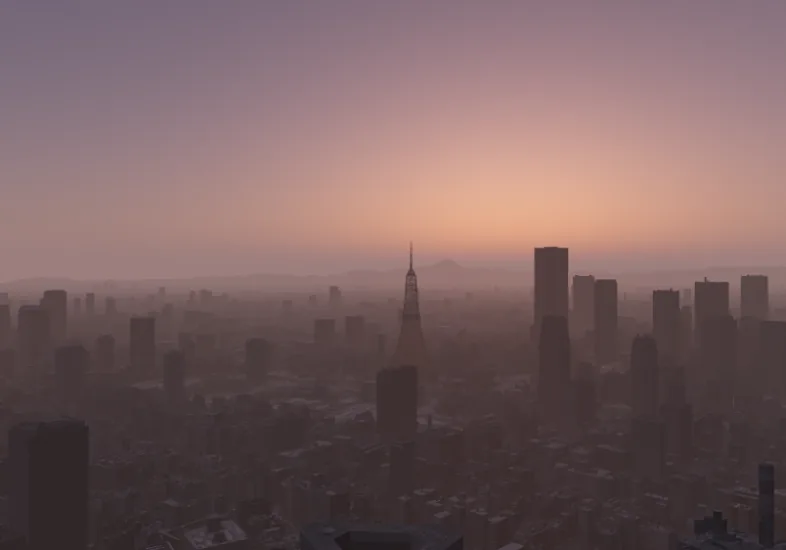
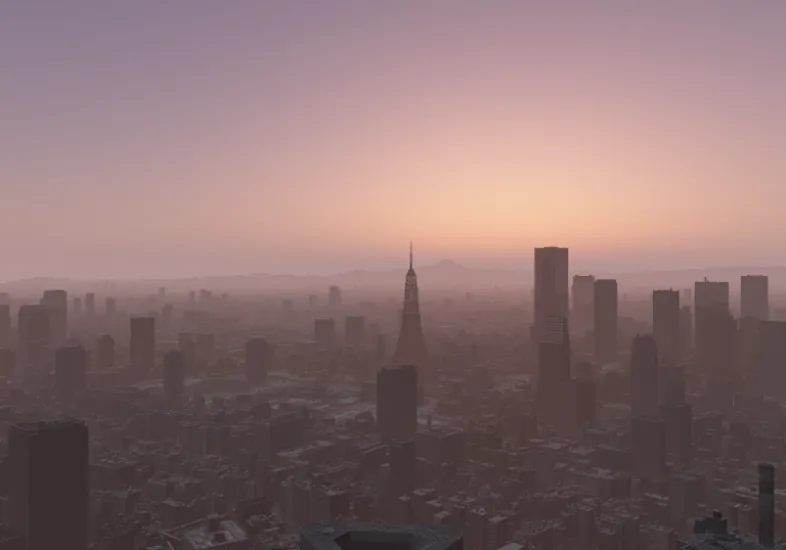
写真らしさ：カメラの自動露出、青みの薄い空の光、ガラスの映り込み、東京タワーの格子の照り方と太さ、東京の夜空の星、研いだ色
ホームの帯の街を、本物の写真の見え方に近づけた
- カメラの自動露出（lib/app/sky-vars.ts の meterExposure）：帯に入る空の明るさ（地平線より上を 5×3 で測る）が決まった値を
  超えたら絞る（0.4〜1）。逆光の午後に空全体が白く飛ばず、太陽の近くだけが白くなり、街は暗いシルエットに。
  CSS の空の色と <head> の最初の計算（SKY_HEAD_SCRIPT）も同じ値（角度だけで決めていた逆光の補正はやめた）
- 空からの光は建物どうしの照り返しで青みが薄まる（彩度を 45% 落とし、地面の照り返しは暖かい灰色 0.16）。建物の間は暗く
- 窓は空を映す（フレネル。オフィスの熱線反射ガラスは正面でも 12%、斜めほど鏡に。太陽の映り込みはきらりと光る）
- 東京タワーは格子なので、面の向きによらず昼は日が当たる（高さ地図で自分の影にしない）。部材は遠目の格子の密度に合わせて
  少し太く焼き直し（scripts/city-bake/tower.py）
- 東京の夜空は明るいので星は明るいものだけ（帯に十数個。地平線の近くは見えない）
- 焼き込んだ色は縮小で柔らかくなった分を少し研ぐ（post3.py）。代わりの絵（WebGL なし・読み込み中）も作り直し
- <head> の最初の計算の霞の上限を lib/app/air.ts と同じ 2.5 に。テスト 775、PC の見た目は本番との差分 0px

Claude-Session: https://claude.ai/code/session_01VXta14VyGyHnimiy8JAqdH

diff --git a/lib/app/sky-vars.ts b/lib/app/sky-vars.ts
@@ -4,7 +4,7 @@
 // 1分ごと・復帰時・日時の固定（#t=）の変化で入れ直す。React は変数の値を描かないので、サーバーで作った HTML と食い違わず
 // （Hydration の問題が出ない）、夜に開いても昼の空が一瞬出ない
 import { AERO_SEASON, airFrom, RH_NORMAL, type Air } from "./air";
-import { ATMOS, dirFromAltAz, skyColor, type Vec3 } from "./atmosphere";
+import { ATMOS, CLEAN_AIR, dirFromAltAz, exposureFor, radiance, skyColor, type AirParams, type Vec3 } from "./atmosphere";
 import { blend, HOME_CAMERA, layerOpacity, light, lightX, overrideTime, PHOTO_ORDER, projectSun, solar, type Camera, type Light } from "./sun";
 import { currentWeather, lightsLevel, type Weather } from "./weather";
 
@@ -69,6 +69,31 @@ export function viewDir(cam: Camera, sx: number, sy: number): Vec3 {
   return [d[0] / n, d[1] / n, d[2] / n];
 }
 
+/**
+ * カメラの自動露出：帯の地平線より上の空の明るさ（横 5 × 縦 3 で測った平均。露出込みの線形の輝度。太陽のすぐそばの極端な値は
+ * knee で丸める）が target を超えたら、その分だけ絞る（min〜1）。逆光の午後に空全体が白く飛ばず、太陽の近くだけが白くなる。
+ * 太陽がカメラの後ろにある昼と、沈んでからは 1（測らない）。<head> の最初の計算（SKY_HEAD_SCRIPT の meter）と、帯のシェーダー（u_expAdj）も同じ値
+ */
+export const METER = { target: 1.85, min: 0.4, nx: 5, ny: 3, knee: 10 } as const;
+export function meterExposure(altitude: number, azimuth: number, cam: Camera = HOME_CAMERA, air: AirParams = CLEAN_AIR): number {
+  const s = dirFromAltAz(altitude, azimuth);
+  const fwd = viewDir(cam, 0, 0);
+  if (altitude < -6 || s[0] * fwd[0] + s[1] * fwd[1] + s[2] * fwd[2] < 0) return 1;
+  const e = exposureFor(altitude);
+  const hy = 1 - 2 * cam.horizon;
+  let sum = 0;
+  for (let j = 0; j < METER.ny; j++) {
+    const sy = hy + (1 - hy) * ((j + 0.5) / METER.ny);
+    for (let i = 0; i < METER.nx; i++) {
+      const L = radiance(viewDir(cam, -1 + 2 * ((i + 0.5) / METER.nx), sy), s, air.aero);
+      const y = (0.2126 * L[0] + 0.7152 * L[1] + 0.0722 * L[2]) * e;
+      sum += METER.knee * (1 - Math.exp(-y / METER.knee));
+    }
+  }
+  const mean = sum / (METER.nx * METER.ny);
+  return Math.round(Math.min(1, Math.max(METER.min, METER.target / Math.max(mean, 1e-6))) * 1000) / 1000;
+}
+
 /** 雲で灰色に寄せる（雲量が多いほど彩度を落とし、少し暗く） */
 export function cloudy(c: Vec3, cloud: number): Vec3 {
   const g = 0.2126 * c[0] + 0.7152 * c[1] + 0.0722 * c[2];
@@ -81,10 +106,11 @@ export function bandColors(altitude: number, azimuth: number, cam: Camera = HOME
   const s = dirFromAltAz(altitude, azimuth);
   const hy = 1 - 2 * cam.horizon;
   const c = weather.cloud;
+  const x = meterExposure(altitude, azimuth, cam, air);
   return {
-    top: cloudy(skyColor(viewDir(cam, 0, 1), s, altitude, air), c),
-    mid: cloudy(skyColor(viewDir(cam, 0, (1 + hy) / 2), s, altitude, air), c),
-    horizon: cloudy(skyColor(viewDir(cam, 0, hy + 0.04), s, altitude, air), c),
+    top: cloudy(skyColor(viewDir(cam, 0, 1), s, altitude, air, x), c),
+    mid: cloudy(skyColor(viewDir(cam, 0, (1 + hy) / 2), s, altitude, air, x), c),
+    horizon: cloudy(skyColor(viewDir(cam, 0, hy + 0.04), s, altitude, air, x), c),
   };
 }
 
@@ -153,14 +179,15 @@ var lo=d2s([0,0,A.Re+A.msL],s),hi=d2s([0,0,A.Re+A.msH],s);
 for(j=0;j<3;j++){var lit=A.msW*(lo?Math.exp(-lo[j]):0)+(1-A.msW)*(hi?Math.exp(-hi[j]):0),th=1-Math.exp(-A.bR[j]*tR-bm*A.mE*tM);out[j]=(out[j]+A.msS*A.msC[j]*th*lit)*A.sun}
 return out}
 function expo(a){var k=A.ek;if(a>=k[0][0])return k[0][1];for(var i=0;i<k.length-1;i++){if(a<=k[i][0]&&a>=k[i+1][0]){var t=(k[i][0]-a)/(k[i][0]-k[i+1][0]);return Math.exp(Math.log(k[i][1])*(1-t)+Math.log(k[i+1][1])*t)}}return k[k.length-1][1]}
-function skyc(v,s,alt){var L=rad(v,s),e=expo(alt),el=Math.asin(Math.max(-1,Math.min(1,v[2])))/P,f=Math.exp(-Math.max(0,el)/A.nF),o=[0,0,0];for(var j=0;j<3;j++)o[j]=Math.round(255*Math.pow(1-Math.exp(-Math.max(0,L[j]*e+(A.nZ[j]+A.nH[j]*f)*GL)),1/2.2));return o}
+function skyc(v,s,alt,x){var L=rad(v,s),e=expo(alt),el=Math.asin(Math.max(-1,Math.min(1,v[2])))/P,f=Math.exp(-Math.max(0,el)/A.nF),o=[0,0,0];for(var j=0;j<3;j++)o[j]=Math.round(255*Math.pow(1-Math.exp(-Math.max(0,(L[j]*e+(A.nZ[j]+A.nH[j]*f)*GL)*x)),1/2.2));return o}
+function meter(s,alt){if(alt<-6||dt(s,vdir(0,0))<0)return 1;var e=expo(alt),hy=1-2*CAM.horizon,sum=0,K=${METER.knee};for(var j=0;j<${METER.ny};j++){var sy=hy+(1-hy)*((j+0.5)/${METER.ny});for(var i=0;i<${METER.nx};i++){var L=rad(vdir(-1+2*((i+0.5)/${METER.nx}),sy),s),y=(0.2126*L[0]+0.7152*L[1]+0.0722*L[2])*e;sum+=K*(1-Math.exp(-y/K))}}var m=sum/${METER.nx * METER.ny};return Math.round(Math.min(1,Math.max(${METER.min},${METER.target}/Math.max(m,1e-6)))*1000)/1000}
 function vdir(sx,sy){var tH=Math.tan(CAM.hfov/2*P),tV=tH/CAM.aspect,pi=Math.atan((2*CAM.horizon-1)*tV),y0=CAM.bearing*P,f=[Math.sin(y0)*Math.cos(pi),Math.cos(y0)*Math.cos(pi),Math.sin(pi)],r=[Math.cos(y0),-Math.sin(y0),0],u=[-Math.sin(y0)*Math.sin(pi),-Math.cos(y0)*Math.sin(pi),Math.cos(pi)],d=[0,1,2].map(function(i){return f[i]+r[i]*sx*tH+u[i]*sy*tV}),n=Math.sqrt(dt(d,d));return[d[0]/n,d[1]/n,d[2]/n]}
 function sdir(alt,az){return[Math.cos(alt*P)*Math.sin(az*P),Math.cos(alt*P)*Math.cos(az*P),Math.sin(alt*P)]}
 function weather(){try{var hs=location.hash.replace(/^#/,""),m=hs.match(/(?:^|&)w=([^&]+)/),hm=hs.match(/(?:^|&)h=(\d{1,3})/),rh=hm?Math.min(100,Number(hm[1])):null;if(m){var kd=decodeURIComponent(m[1]).split(":")[0],n=Number(decodeURIComponent(m[1]).split(":")[1]),a=isNaN(n)?0.5:Math.min(1,Math.max(0,n));
 if(kd==="clear")return{cloud:0.05,precip:0,fog:0,humidity:rh};if(kd==="partly")return{cloud:isNaN(n)?0.5:a,precip:0,fog:0,humidity:rh};if(kd==="cloudy")return{cloud:isNaN(n)?0.97:Math.max(0.85,a),precip:0,fog:0,humidity:rh};
 if(kd==="rain")return{cloud:0.97,precip:a,fog:0.25,humidity:rh};if(kd==="snow")return{cloud:0.95,precip:a,fog:0.3,humidity:rh};if(kd==="fog")return{cloud:0.9,precip:0,fog:isNaN(n)?0.7:a,humidity:rh===null?99:rh}}
 var raw=localStorage.getItem("michilu:weather");if(raw){var v=JSON.parse(raw);if(v&&v.w&&typeof v.t==="number"&&Date.now()-v.t<=${30 * 60e3})return v.w}}catch(e){}return{cloud:0.08,precip:0,fog:0,humidity:null}}
-function air(W,d){var mo=new Date(d.getTime()+32400000).getUTCMonth()+1,rh=W.humidity===null||W.humidity===undefined?RHN[mo]:Math.min(100,Math.max(0,W.humidity)),r=Math.min(97,Math.max(10,rh))/100,ae=Math.round(Math.min(4,Math.max(0.1,Math.pow(0.5/(1-r),0.8)*AS[mo]))*1000)/1000;AR=ae;GL=Math.round(Math.min(1.9,Math.max(0.85,0.65+0.35*ae))*1000)/1000}
+function air(W,d){var mo=new Date(d.getTime()+32400000).getUTCMonth()+1,rh=W.humidity===null||W.humidity===undefined?RHN[mo]:Math.min(100,Math.max(0,W.humidity)),r=Math.min(97,Math.max(10,rh))/100,ae=Math.round(Math.min(2.5,Math.max(0.1,Math.pow(0.5/(1-r),0.8)*AS[mo]))*1000)/1000;AR=ae;GL=Math.round(Math.min(1.9,Math.max(0.85,0.65+0.35*ae))*1000)/1000}
 function cloudy(c,cl){var gy=0.2126*c[0]+0.7152*c[1]+0.0722*c[2],k=cl*0.85,m=[0.97,0.98,1],o=[0,0,0];for(var i=0;i<3;i++)o[i]=Math.round((c[i]*(1-k)+gy*k*m[i])*(1-cl*0.1));return o}
 var OCC=${JSON.stringify([[0, 0.55], [1, 0.42], [2, 0.32], [3, 0.28], [4, 0.28], [5, 0.36], [6, 0.5], [7, 0.62], [8, 0.75], [9, 0.8], [16, 0.8], [17, 0.9], [18, 1], [21, 1], [22, 0.92], [23, 0.75], [24, 0.55]])};
 function occ(h){h=((h%24)+24)%24;for(var i=0;i<OCC.length-1;i++){if(h>=OCC[i][0]&&h<=OCC[i+1][0])return OCC[i][1]+(OCC[i+1][1]-OCC[i][1])*(h-OCC[i][0])/(OCC[i+1][0]-OCC[i][0])}return 0.55}
@@ -181,7 +208,7 @@ if(!up){if(a>=0){b.day=ss(0,10,a);b.golden=1-b.day}else if(a>=-6){b.golden=ss(-6
 else if(a>=0){b.day=ss(0,10,a);b.dawn=1-b.day}else if(a>=-6){b.dawn=ss(-6,0,a);b.night=1-b.dawn}else b.night=1;return b}
 function hex(c){var s="#";for(var i=0;i<3;i++){var v=Math.round(Math.min(255,Math.max(0,c[i]))).toString(16);s+=(v.length<2?"0":"")+v}return s}
 function at(){var m=location.hash.replace(/^#/,"").match(/(?:^|&)t=([^&]+)/);if(m){var v=decodeURIComponent(m[1]),d=new Date(/[zZ]|[+-]\\d\\d:?\\d\\d$/.test(v)?v:v+(v.length<=10?"T12:00":"")+"+09:00");if(!isNaN(d.getTime()))return d}return new Date()}
-var d0=at(),s=sun(d0),a=s[0],up=s[1],az=s[2],b=blend(a,up),sd=sdir(a,az),hy=1-2*CAM.horizon,W=weather();air(W,d0);var top=cloudy(skyc(vdir(0,1),sd,a),W.cloud),md=cloudy(skyc(vdir(0,(1+hy)/2),sd,a),W.cloud),hz=cloudy(skyc(vdir(0,hy+0.04),sd,a),W.cloud);
+var d0=at(),s=sun(d0),a=s[0],up=s[1],az=s[2],b=blend(a,up),sd=sdir(a,az),hy=1-2*CAM.horizon,W=weather();air(W,d0);var X=meter(sd,a),top=cloudy(skyc(vdir(0,1),sd,a,X),W.cloud),md=cloudy(skyc(vdir(0,(1+hy)/2),sd,a,X),W.cloud),hz=cloudy(skyc(vdir(0,hy+0.04),sd,a,X),W.cloud);
 var jh=(((d0.getTime()+32400000)%86400000)+86400000)%86400000/3600000,lightsV=ss(4,-6,a)*occ(jh);
 var lum=(0.2126*top[0]+0.7152*top[1]+0.0722*top[2])/255,dark=lum<0.42;
 var near=Math.exp(-((a+1)*(a+1))/(2*4.5*4.5)),warm=a<8&&a>-8?ss(8,0,a)*(1-ss(-2,-8,a)):0,n=b.night+0.5*(b.twilight+b.dawn);

diff --git a/components/app/sky-canvas.tsx b/components/app/sky-canvas.tsx
@@ -16,13 +16,14 @@
 import * as SunCalc from "suncalc";
 import { useEffect, useRef, type CSSProperties } from "react";
 import { ATMOS, dirFromAltAz, exposureFor, sunTransmittance, sunTransmittanceAt } from "@/lib/app/atmosphere";
-import { airFrom } from "@/lib/app/air";
+import { airFrom, type Air } from "@/lib/app/air";
 import { snowlineM, treeSeason, visibilityKm, windowOccupancy } from "@/lib/app/city";
 import { artificialVisibility, cityAmbient, skyIrradianceSH, sunIrradiance } from "@/lib/app/city-light";
 import { CAM_LL, cloudDrift, currentSky, flashAt, parseTime, sunVisibility, type LiveSky } from "@/lib/app/satellite";
 import { BASE, HOME_CAMERA, overrideTime, smoothstep, solar, type Camera } from "@/lib/app/sun";
 import { towerLight } from "@/lib/app/tower";
 import { currentWeather } from "@/lib/app/weather";
+import { meterExposure } from "@/lib/app/sky-vars";
 import { SKY_EVENT } from "./sky-event";
 
 const VERT = `attribute vec2 a;void main(){gl_Position=vec4(a,0.0,1.0);}`;
@@ -87,7 +88,8 @@ float d=decodeDist(g);vec3 v=viewDir(uv);vec3 P=v*d;
 vec3 n=normalize(texture2D(u_nrm,iuv).rgb*2.0-1.0);
 float lit=max(dot(n,u_sun),0.0);
 /* 影：今の太陽の向きへ高さ地図をたどり、途中の建物・地形が光線より高ければ影 */
-if(lit>0.0){float hs=length(u_sun.xy);
+/* 東京タワーは格子：どの向きから見ても日の当たる部材が透けて見えるので、面の向きによらず昼はおおむね照る（高さ地図では自分の影にしない） */
+if(typ==4.0)lit=(0.35+0.5*lit)*step(0.0,u_sun.z);else if(lit>0.0){float hs=length(u_sun.xy);
 if(hs>1e-4&&d<9000.0){vec2 sd=u_sun.xy/hs;float ta=u_sun.z/hs;vec2 q0=P.xy+n.xy*2.5;float z0=P.z+0.7+max(n.z,0.0)*0.6;
 float s=4.0;float oc=0.0;
 for(int i=0;i<30;i++){float h=dsmH(q0+sd*s);float ray=z0+s*ta;oc=max(oc,clamp((h-ray)/(1.5+s*0.015),0.0,1.0));s*=1.2;}
@@ -184,10 +186,10 @@ if(u_moonOn>0.5){vec3 m=u_moon;vec3 mu_=normalize(cross(m,vec3(0.0,0.0,1.0)));ve
 float vis=clamp(1.0-skyLum*3.0,0.08,1.0)*(1.0-u_cloud*0.85);float tm=acos(clamp(dot(v,m),-1.0,1.0));
 if(rr<1.0){float nz=sqrt(1.0-rr);vec3 n=-m*nz+mu_*dx+mv*dy;float l=max(0.0,dot(n,u_sun));float edge=1.0-smoothstep(0.9,1.0,rr);sky+=vec3(1.0,0.97,0.9)*(l*0.85+0.03)*edge*vis;}
 sky+=vec3(0.9,0.92,1.0)*0.09*exp(-tm/(0.04*u_haze))*vis;}
-/* 星（暗いときだけ。雲の後ろ。街明かりで地平線の近くは見えない） */
+/* 星（暗いときだけ。雲の後ろ。東京の空は街明かりで明るく、見えるのは明るい星だけ＝帯に十数個。地平線の近くは見えない） */
 if(u_stars>0.0){float az=atan(v.x,v.y);vec2 cell=vec2(az,asin(clamp(v.z,-1.0,1.0)))/0.0061;vec2 id=floor(cell);float h1=hash21(id);
-if(h1<0.013){vec2 cen=id+0.5+vec2(hash21(id+1.3),hash21(id+7.1))*0.6-0.3;float dd=length(cell-cen);float b=pow(hash21(id+3.7),3.0)*0.9+0.08;
-sky+=vec3(0.85,0.9,1.0)*b*exp(-dd*dd*9.0)*u_stars*clamp(1.0-skyLum*6.0,0.0,1.0)*smoothstep(0.03,0.3,v.z);}}
+if(h1<0.0014){vec2 cen=id+0.5+vec2(hash21(id+1.3),hash21(id+7.1))*0.6-0.3;float dd=length(cell-cen);float b=pow(hash21(id+3.7),2.0)*0.85+0.15;
+sky+=vec3(0.85,0.9,1.0)*b*exp(-dd*dd*9.0)*u_stars*clamp(1.0-skyLum*6.0,0.0,1.0)*smoothstep(0.08,0.45,v.z);}}
 sky=mix(sky,cloudColH,dH*0.93);sky=mix(sky,cloudColL,dL*0.95);
 /* 稲光：発雷域の向きの雲と空が一瞬明るくなる */
 if(u_flash>0.0){float ang=acos(clamp(dot(normalize(v.xy+vec2(1e-5,0.0)),u_flashDir),-1.0,1.0));float k=u_flash*exp(-ang*ang/0.22)*smoothstep(-0.02,0.08,v.z);sky+=vec3(0.85,0.88,1.0)*k*(0.25+1.2*max(dL,dH));}
@@ -218,9 +220,17 @@ a*=1.0-0.38*u_wet*up*(1.0-u_snowCover);
 /* 雲の影：太陽の向きにたどって雲の層に当たる所の雲の濃さ（本物の雲の影） */
 float cs=cloudShadow(P.xy/1000.0,P.z/1000.0);
 vec3 E=max(u_sh0+u_sh1*n.x+u_sh2*n.y+u_sh3*n.z,vec3(0.0));
-vec3 L=a*(u_sunE*pre.r*cs+E*ao*0.8)/3.14159265+a*u_amb*(0.35+0.65*ao);
+/* 空からの光は建物どうしの照り返しで青みが薄まる。建物の間（空の見え方が小さい所）は暗い */
+E=mix(E,vec3(dot(E,vec3(0.2126,0.7152,0.0722))),0.45);
+vec3 L=a*(u_sunE*pre.r*cs+E*ao*(0.45+0.45*ao))/3.14159265+a*u_amb*(0.35+0.65*ao);
 /* 濡れた屋根・道は空を映す（夜は街灯も） */
 L+=haze*0.10*u_wet*up*(1.0-u_snowCover);
+/* ガラス：窓は空を映す（斜めから見るほど強く＝フレネル。オフィスの熱線反射ガラスは正面でも 12% ほど映す）。太陽の映り込みはきらりと光る */
+if(typ<2.5){float glass=texture2D(u_win,iuv).r*(aux<1.5?1.0:0.7)*(1.0-u_snowCover);
+if(glass>0.01){float nv=max(dot(n,-v),0.0);float f0=aux<1.5?0.12:0.05;float F=f0+(1.0-f0)*pow(1.0-nv,5.0);vec3 rv=reflect(v,n);
+vec3 refl=rv.z>0.0?mix(hz*0.9,zen,smoothstep(0.0,0.5,rv.z)):L*0.8;
+float glint=pow(max(dot(rv,u_sun),0.0),180.0)*step(0.0,u_sun.z)*sunVis*min(pre.r*4.0,1.0);
+L+=glass*(F*refl+glint*u_sunE*0.12);}}
 /* 窓（用途で色が違う：オフィスは白、住宅は暖色が多い） */
 if(pre.g>0.0){vec3 w=texture2D(u_win,iuv).rgb;
 vec3 wc=aux<1.5?mix(vec3(0.86,0.92,1.0),vec3(1.0,0.9,0.74),step(0.6,fract(w.b*5.1))):(aux<2.5?vec3(1.0,0.84,0.62):(aux<3.5?vec3(1.0,0.76,0.5):(aux<4.5?mix(vec3(1.0,0.7,0.4),vec3(0.9,0.94,1.0),step(0.75,fract(w.g*7.3))):vec3(0.96,0.9,0.8))));
@@ -249,7 +259,7 @@ outc=mix(outc,haze*0.78,1.0-exp(-od));}
 vec3 col=tone(outc*u_expAdj);
 /* 霧・雨・雪のときは、空も地平線の近くが白っぽく */
 float fogC=clamp(u_fog+u_precip*0.35+u_snow*0.3,0.0,1.0);
-col=mix(col,tone(haze),clamp(fogC*0.55*smoothstep(0.2,u_horizon,iuv.y)*(1.0-cov),0.0,0.85));
+col=mix(col,tone(haze*u_expAdj),clamp(fogC*0.55*smoothstep(0.2,u_horizon,iuv.y)*(1.0-cov),0.0,0.85));
 /* 雨・雪 */
 if(u_precip>0.0){if(u_snow>0.5){float s=snow(uv,26.0,0.075,1.0)+0.6*snow(uv,52.0,0.13,5.0);col=mix(col,vec3(0.96,0.97,1.0),clamp(s,0.0,1.0)*0.9);}
 else{float r=rain(uv,vec2(62.0,7.0),1.4,1.0)+0.6*rain(uv,vec2(115.0,12.0),2.1,7.0);col+=vec3(0.72,0.78,0.88)*r*0.34*(0.5+0.5*u_precip);}}
@@ -512,6 +522,12 @@ function lightValues(at: Date, sun: [number, number, number], altitude: number) 
   return lightCache.v;
 }
 
+let meterCache: { key: string; v: number } | null = null;
+function meterCached(altitude: number, azimuth: number, cam: Camera, air: Air): number {
+  const key = `${altitude.toFixed(2)}|${azimuth.toFixed(2)}|${cam.bearing}|${cam.horizon}|${air.aero}`;
+  if (!meterCache || meterCache.key !== key) meterCache = { key, v: meterExposure(altitude, azimuth, cam, air) };
+  return meterCache.v;
+}
 function draw(g: Gl, cam: Camera, at: Date, city: boolean, seconds: number, still: boolean) {
   const { gl } = g;
   const s = solar(at);
@@ -666,10 +682,8 @@ function draw(g: Gl, cam: Camera, at: Date, city: boolean, seconds: number, stil
   gl.uniform1f(m.u_time, seconds);
   // 雲の流れ：風は西寄り（画面の左から右へゆっくり）
   gl.uniform2f(m.u_wind, 0.004 + (w.wind ?? 2) * 0.0012, 0.0015);
-  // 太陽が画面の近くにある逆光のときは、カメラのように露出を絞る（明るい空に合わせて街は暗く）
-  const facing = sun[0] * b.f[0] + sun[1] * b.f[1] + sun[2] * b.f[2];
-  const backlit = smoothstep(Math.cos(50 * R), Math.cos(6 * R), facing) * smoothstep(22, 1, s.altitude) * smoothstep(-5, -0.5, s.altitude);
-  gl.uniform1f(m.u_expAdj, showCity ? 1 - 0.42 * backlit : 1);
+  // カメラの自動露出：帯に入る空が明るすぎる（逆光の午後）ときは絞る。CSS の空の色（lib/app/sky-vars.ts）と同じ値
+  gl.uniform1f(m.u_expAdj, meterCached(s.altitude, s.azimuth, cam, air));
   gl.drawArrays(gl.TRIANGLES, 0, 3);
   // 3 枚目：航空障害灯（足し合わせ）
   if (showCity && lv && g.lights && g.pts && lv.lightsVis > 0.01 && !lightsOff()) {

diff --git a/lib/app/city-light.ts b/lib/app/city-light.ts
@@ -6,6 +6,9 @@ import { smoothstep } from "./sun";
 
 export type SH = [Vec3, Vec3, Vec3, Vec3];
 
+/** 街の地面と建物の照り返しの反射率（アスファルト・コンクリート・タイル。少し暖かい灰色） */
+const GROUND: Vec3 = [0.17, 0.16, 0.145];
+
 /** 球の上にほぼ均等に置いた向き（フィボナッチ格子） */
 function sphere(n: number): Vec3[] {
   const out: Vec3[] = [];
@@ -21,7 +24,7 @@ const DIRS = sphere(64);
 
 /**
  * 面の向き n が受ける空からの光（露出をかけた放射照度）を E(n) = c0 + c1·n.x + c2·n.y + c3·n.z で近似した係数。
- * 地面からの照り返し（反射率 0.12）も含む。cloud（0〜1）が大きいほど灰色の一様な光に寄せる
+ * 地面からの照り返し（反射率 0.16 ほどの暖かい灰色）も含む。cloud（0〜1）が大きいほど灰色の一様な光に寄せる
  */
 export function skyIrradianceSH(sun: Vec3, sunAltitude: number, cloud: number, air: AirParams = CLEAN_AIR): SH {
   const e = exposureFor(sunAltitude);
@@ -42,7 +45,7 @@ export function skyIrradianceSH(sun: Vec3, sunAltitude: number, cloud: number, a
   const Eup: Vec3 = upSum.map((x) => (x / Math.max(upN, 1e-6)) * Math.PI) as Vec3;
   const T = sunTransmittance(sun, air.aero);
   const Esun: Vec3 = T.map((t) => t * ATMOS.sun * e * Math.max(0, sun[2])) as Vec3;
-  const ground: Vec3 = [0, 1, 2].map((j) => (0.12 * (Eup[j] + Esun[j])) / Math.PI) as Vec3;
+  const ground: Vec3 = [0, 1, 2].map((j) => (GROUND[j] * (Eup[j] + Esun[j])) / Math.PI) as Vec3;
   // 曇り：上からの灰色の光（晴れの日の上向きの光の 4 割ほど）
   const ocLum = 0.42 * (0.2126 * (Eup[0] + Esun[0]) + 0.7152 * (Eup[1] + Esun[1]) + 0.0722 * (Eup[2] + Esun[2])) / Math.PI;
   const c = Math.pow(Math.max(0, Math.min(1, cloud)), 1.3);

diff --git a/lib/app/exposure.test.ts b/lib/app/exposure.test.ts
@@ -1,0 +1,32 @@
+import { describe, expect, it } from "vitest";
+import { airFrom } from "./air";
+import { METER, meterExposure } from "./sky-vars";
+import { solar } from "./sun";
+import { NO_WEATHER } from "./weather";
+
+/** 日時（UTC）と湿度 → 自動露出の絞り（0.4〜1） */
+const adj = (iso: string, humidity: number) => {
+  const d = new Date(iso);
+  const s = solar(d);
+  return meterExposure(s.altitude, s.azimuth, undefined, airFrom({ ...NO_WEATHER, humidity }, d));
+};
+
+describe("カメラの自動露出（帯に入る空の明るさで絞る）", () => {
+  it("太陽が後ろにある昼と、夜は絞らない", () => {
+    expect(adj("2026-10-26T02:30:00Z", 35)).toBe(1); // 10/26 11:30
+    expect(adj("2026-12-20T01:30:00Z", 25)).toBe(1); // 12/20 10:30
+    expect(adj("2026-07-15T03:00:00Z", 75)).toBe(1); // 7/15 12:00
+    expect(adj("2026-10-26T11:00:00Z", 50)).toBe(1); // 20:00
+  });
+  it("逆光の午後は絞る（太陽が画角に近いほど・遅いほど強く。下限 0.4）", () => {
+    const a = adj("2026-10-26T05:30:00Z", 10); // 14:30
+    const b = adj("2026-10-26T06:00:00Z", 35); // 15:00
+    expect(a).toBeLessThan(0.7);
+    expect(b).toBeLessThan(a);
+    expect(b).toBeGreaterThanOrEqual(METER.min);
+    expect(adj("2026-04-10T07:00:00Z", 55)).toBeLessThan(0.7); // 4/10 16:00
+  });
+  it("霞が多い（湿った）日ほど太陽の周りが明るく、よく絞る", () => {
+    expect(adj("2026-10-26T06:00:00Z", 85)).toBeLessThan(adj("2026-10-26T06:00:00Z", 20));
+  });
+});

diff --git a/lib/app/atmosphere.ts b/lib/app/atmosphere.ts
@@ -219,8 +219,9 @@ export function skyLinear(v: Vec3, s: Vec3, sunAltitude: number, air: AirParams 
 }
 
 /** 空の色（太陽本体・月・星は含まない）。画面の 0〜255 */
-export function skyColor(v: Vec3, s: Vec3, sunAltitude: number, air: AirParams = CLEAN_AIR): Vec3 {
-  return tone(skyLinear(v, s, sunAltitude, air));
+export function skyColor(v: Vec3, s: Vec3, sunAltitude: number, air: AirParams = CLEAN_AIR, adjust = 1): Vec3 {
+  const L = skyLinear(v, s, sunAltitude, air);
+  return tone([L[0] * adjust, L[1] * adjust, L[2] * adjust]);
 }
 
 /** 画面に描く光（0〜1。露出・ガンマ前）の相対輝度 */

diff --git a/lib/app/sun.test.ts b/lib/app/sun.test.ts
@@ -206,5 +206,5 @@ describe("SKY_HEAD_SCRIPT（最初に描く前の簡単な計算）", () => {
       }
     expect(worst).toBeLessThan(0.05);
     expect(worstColor).toBeLessThanOrEqual(3);
-  });
+  }, 30000);
 });

diff --git a/scripts/city-bake/tower.py b/scripts/city-bake/tower.py
@@ -1,4 +1,5 @@
 # 東京タワーの格子の模型（寸法は公開の値と PLATEAU の外形から）。カメラの ENU で出力する
+#  部材の太さは実寸より少し太め：約 1.7km 先では画素に満たない部材が縮小で薄れるので、遠目に見える格子の密度（下半分で 5〜6 割）に合わせる
 #  高さ 333m、大展望台（メインデッキ）145〜150m、特別展望台（トップデッキ）250m、脚の間隔 約 88m
 #  塗り分け：大展望台より下はインターナショナルオレンジ、大展望台は白、その上は白とオレンジの 7 等分（最上部と最下部はオレンジ）
 #  属性：色（rgb）、部位（0 格子 1 大展望台のガラス 2 特別展望台のガラス 3 アンテナ 4 フットタウン 5 チョーカー 6 ティアラ）、照明の当たり（0〜1）、段（ダイヤモンドヴェールの 17 段）
@@ -70,10 +71,10 @@ for sx, sy in SIGNS:
         if z1 > 262: break
         lw = legw(z0)
         a = corner(z0, sx, sy); b = corner(z1, sx, sy)
-        box(a, b, max(lw * 0.45, 1.1), 0)
+        box(a, b, max(lw * 0.6, 1.5), 0)
         ai = corner(z0, sx, sy, inset=lw * 0.9); bi = corner(z1, sx, sy, inset=legw(z1) * 0.9)
-        box(ai, bi, max(lw * 0.3, 0.8), 0)
-        box(a, bi, 0.7, 0); box(ai, b, 0.7, 0)
+        box(ai, bi, max(lw * 0.42, 1.1), 0)
+        box(a, bi, 0.95, 0); box(ai, b, 0.95, 0)
 # 各面：横材とバツ印の斜材、下はアーチ
 faces = [((-1, -1), (1, -1)), ((1, -1), (1, 1)), ((1, 1), (-1, 1)), ((-1, 1), (-1, -1))]
 for (ax, ay), (bx, by) in faces:
@@ -88,23 +89,23 @@ for (ax, ay), (bx, by) in faces:
         if ay == by: y = ay * w(z)
         if ax == bx: x = ax * w(z)
         pts.append((x, y, z))
-    for p, q in zip(pts, pts[1:]): box(p, q, 1.6, 0)
+    for p, q in zip(pts, pts[1:]): box(p, q, 2.1, 0)
     for z0, z1 in zip(levels, levels[1:]):
         if z0 < 45 or z1 > 262: continue
         a0, b0 = corner(z0, ax, ay), corner(z0, bx, by)
         a1, b1 = corner(z1, ax, ay), corner(z1, bx, by)
-        box(a0, b0, 0.9, 0)
+        box(a0, b0, 1.25, 0)
         if 140 <= z0 < 158: continue  # 大展望台の中
-        box(a0, b1, 0.6, 0); box(b0, a1, 0.6, 0)
+        box(a0, b1, 0.85, 0); box(b0, a1, 0.85, 0)
         if z1 <= 140:
             m0 = tuple((np.array(a0) + np.array(b0)) / 2); m1 = tuple((np.array(a1) + np.array(b1)) / 2)
-            box(m0, m1, 0.7, 0)
+            box(m0, m1, 0.95, 0)
 # 大展望台（2 層）とトップデッキ、チョーカーとティアラ
 slab(140, 141.3, 16.6, 0, WHITE); slab(141.3, 149.4, 16.4, 1, GLASS); slab(149.4, 151.0, 16.6, 0, WHITE); slab(151.0, 155.6, 15.6, 1, GLASS); slab(155.6, 158.5, 15.9, 5, WHITE)
 slab(246.0, 246.9, 7.4, 0, WHITE); slab(246.9, 251.0, 7.2, 2, GLASS); slab(251.0, 253.6, 7.5, 6, WHITE)
 # 上の格子からアンテナ
 for z0, z1 in ((253, 262),):
-    for sx, sy in SIGNS: box(corner(z0, sx, sy), corner(z1, sx, sy), 0.9, 0)
+    for sx, sy in SIGNS: box(corner(z0, sx, sy), corner(z1, sx, sy), 1.2, 0)
 seg = [(262, 1.9), (275, 1.6), (296, 1.3), (313, 1.0), (333, 0.5)]
 for (z0, r0), (z1, r1) in zip(seg, seg[1:]):
     n = 10

diff --git a/scripts/city-bake/post3.py b/scripts/city-bake/post3.py
@@ -1,6 +1,7 @@
 # 1 倍に縮めて詰める：色・法線と空の見え方・距離と種類・窓・塔と道路。影用の高さ地図（真上）と航空障害灯の位置
 import os, numpy as np, json, math, sys, os
 from PIL import Image
+from scipy import ndimage
 sys.path.insert(0, os.path.dirname(os.path.abspath(__file__)))
 from load_bake import load
 from geo import CAM, GEOID
@@ -69,6 +70,9 @@ def pack(k, tag):
         while m.ndim < b.ndim: m = m[..., None]
         return (b * m).sum(2) / np.maximum(m.sum(2), 1e-6)
     alb1 = gmean(A)
+    # 色を少しだけ研ぐ（縮めて柔らかくなった分を戻す。カメラの輪郭強調と同じ程度。街の画素だけ）
+    blur = np.stack([ndimage.gaussian_filter(alb1[..., c], 0.8) for c in range(3)], -1)
+    alb1 = np.where((cov > 0.5)[..., None], np.clip(alb1 + 0.55 * (alb1 - blur), 0, 1), alb1)
     n1 = gmean(N); n1 /= np.maximum(np.linalg.norm(n1, axis=-1, keepdims=True), 1e-6)
     svf1 = np.where(cov > 0, gmean(svf), 1.0)
     ld = np.log(np.clip(dist, 100, 200000) / 100) / math.log(2000)

diff --git a/docs/features.md b/docs/features.md
@@ -312,11 +312,12 @@
     - 各ページの帯の色・時刻の帯の色も雲量で灰色に寄せる（<head> の最初の計算は端末に覚えた天気を使う）。
 56. **実在の街（PLATEAU）をホームの帯に**（`components/app/sky-canvas.tsx`、`lib/app/city.ts`、`lib/app/city-light.ts`、`lib/app/tower.ts`、`public/home/city`、焼き込みは `scripts/city-bake`）: 写真の街をやめ、国土交通省 PLATEAU の 3D 都市モデル（港区・渋谷区・目黒区・品川区・世田谷区・大田区・杉並区・狛江市・調布市・川崎市の建物と植生、約 11 万棟）と、地理院タイル（シームレス空中写真・標高・道路中心線）から、汐留の上空 260m（方位 246°、ほぼ水平）の視点で街を焼き込んだ。東京タワーは公開の寸法（高さ 333m、大展望台 150m、トップデッキ 250m、塗り分け：大展望台より下はインターナショナルオレンジ、大展望台は白、その上は白とオレンジの 7 等分）で作った格子の模型。富士山・丹沢などの山並みは地理院の標高（地球の丸みと大気の屈折を含む）。
     - 焼き込んだ層：色（質感の写真。写真の無い建物は屋根を空中写真、壁を用途ごとの色と階の模様で補う）、面の向きと空の見え方、距離と種類（建物・地面・塔・木・山）、窓（建物の用途・階・列から。オフィスは 4 列の区画、住宅は 2 列の住戸、ホテルは 1 列ごとに点灯のまとまり）、塔と道路（ランドマークライトの当たり方、ダイヤモンドヴェールの段、道の太さと向き）、影用の高さ地図（真上から、視界の周り 600m）。3 倍の端末で約 1.5MB、2 倍で約 1.0MB。
-    - 実行時（`SkyCanvas`）：太陽の直射（建物の影は高さ地図を今の太陽の向きへたどって計算）と、空からの光（大気の式から向きごとの強さを球面調和で近似。夕方は西の空が明るい側の面が橙、曇りは灰色の一様な光）、雲の影（雲の層に当たる所の雲の濃さ）、遠くの霞（見通し＝湿度・季節・雨・雪・霧から。乾いた冬の日は富士山が見える）、濡れた屋根と道、雪の積もり、季節の木（桜・新緑・紅葉・冬枯れ）、富士山の雪線（月ごと）。逆光で太陽が画面の近くにあるときは、カメラのように露出を絞る。
+    - 実行時（`SkyCanvas`）：太陽の直射（建物の影は高さ地図を今の太陽の向きへたどって計算）と、空からの光（大気の式から向きごとの強さを球面調和で近似。夕方は西の空が明るい側の面が橙、曇りは灰色の一様な光）、雲の影（雲の層に当たる所の雲の濃さ）、遠くの霞（見通し＝湿度・季節・雨・雪・霧から。乾いた冬の日は富士山が見える）、濡れた屋根と道、雪の積もり、季節の木（桜・新緑・紅葉・冬枯れ）、富士山の雪線（月ごと）。カメラの自動露出（`lib/app/sky-vars.ts` の `meterExposure`）：帯に入る空の明るさ（地平線より上を 5×3 で測った平均）が決まった値を超えたら絞る（0.4〜1）。逆光の午後に空全体が白く飛ばず、太陽の近くだけ白くなり、街は暗いシルエットに。CSS の空の色と <head> の最初の計算も同じ値。
     - 夜：窓は建物の用途ごとの点灯率（平日・土曜・休日と年末年始、時刻。祝日は振替休日・国民の休日まで計算）と比べて 1 つずつ点く。街灯（国道・都道・高速は明るく、車の光が流れる）、60m 以上の屋上の航空障害灯（100m 以上は点滅）、東京タワー（日没〜24 時。7/7 の夜から白、10 月初旬からオレンジ。月・木の 20〜22 時はダイヤモンドヴェール＝月ごとの色、30 分ごとに模様が替わり替わり目は白く。毎正時に 2 分の純白の煌めき。展望台の窓は 23 時まで）。#…&l=0 で人工の明かりを消せる（代わりの絵を作るため）。
     - 汐留から見たダイヤモンド富士（太陽が富士山頂に沈む）は 11 月 2〜3 日の 16:34 ごろと 2 月 8〜9 日の 17:04 ごろ。
     - 本物の雲・雨・雷（`lib/app/satellite.ts`）：気象庁のひまわり画像（日本域の z6 タイル 1 枚＝東京のまわり 500km、約 2km/画素。可視 B03 と赤外 B13、2.5 分ごと・公開は約 8 分遅れ。「今 − 8 分」から 2.5 分刻みでさかのぼって最初に読めたもの）から、低い雲（R）・高い雲（G）・明るさ（B）の場を作る。昼は可視の反射率で濃さ、赤外の温度で高さ。夜は赤外だけ（いちばん暖かい 1 割を地面として、それより冷たい所を雲）なので、低い雲は予報の雲量で補う。シェーダーは低い雲（1.4km）と高い雲（7.5km）の 2 つの層を地球の丸みに沿って置き、視線がそれぞれの層に当たる所の値を読んで、細かい模様で 2km の画素の中を埋める。高い雲は日没後もしばらく日が当たり桃色に残る（7.5km の高さに届く太陽の光の色で）。太陽の隠れ具合・雲の影も同じ場から（本物の雲の影が街に落ちる）。雲は地上の風の 2 倍で流れる。読めたときは 1.5 秒で切り替え、読めないときは雲量だけの模様。カメラのまわり約 25km の雲量を CSS の色と街の照明にも使う。
     - 雨の幕：高解像度降水ナウキャスト（5 分ごと。z8 タイル 2×2＝西〜南西 180km、約 0.6km/画素）の雨の強さ（mm/h）を、視線が雲の底（1.4km）より下を通る分だけ積分して灰色に溶かす（遠くの雨柱、近くの雨。減衰は 0.2×R^0.63/km）。手元の雨の筋の強さもレーダーのカメラ位置の値（mm/h ÷ 15）。雷ナウキャスト（10 分ごと）に発雷域があれば、その向きの雲と空が 22 秒に 1 回ほど 2 回ちらつく（遠いほど弱く、150km より遠くは出さない）。#w= で天気を固定しているときは衛星・レーダーを使わない。#sat=YYYYMMDDhhmmss（UTC）でひまわりの時刻を固定できる。
+    - 写真らしさ：空からの光は建物どうしの照り返しで青みが薄まる（空の光の彩度を 45% 落とし、地面の照り返しは暖かい灰色 0.16）。建物の間（空の見え方が小さい所）は暗い。窓は空を映す（フレネル。オフィスの熱線反射ガラスは正面でも 12%、斜めから見るほど鏡に近づく。太陽の映り込みはきらりと光る）。東京タワーは格子なので、面の向きによらず昼は日が当たる（高さ地図では自分の影にしない。部材は遠目の密度に合わせて少し太め）。東京の夜空は明るいので星は明るいものだけ（帯に十数個、地平線の近くは見えない）。焼き込んだ色は縮小で柔らかくなった分を少し研ぐ（カメラの輪郭強調と同じ程度）。
     - 湿度（`lib/app/air.ts`）：霞の粒は湿度が高いと水を吸ってふくらみ光をよく散らす。気象庁の湿度と季節（冬は大陸の澄んだ空気、夏はもや・光化学スモッグ）から霞の量 aero を決め、大気の式のミー散乱（地表近くの層。上空の薄い霞は湿度によらず、日没後の西の赤みのもと）、太陽と月のにじみの広がり、遠くの霞（見通し＝コシュミーダーの式。同じ係数）、星の見え方、夜の空の明るさ（街の明かりが霞で散る）に使う。見通しは乾いた冬の 30% で約 105km（富士山がくっきり）、10 月の 50% で約 29km、夏の 65% で約 12km、88% で約 6km。CSS の色と <head> の最初の計算も同じ（湿度は端末に覚えた観測から。#…&h=30 で固定できる）。
     - 出典は「その他」の「データの出典と時点」に「街並み（ホームの帯）」として表示（PLATEAU・地理院タイルを加工して作成）。
     - 保留：季節の写真、実機での色の調整、ログイン・会社での共有（記録の形は共有できるように作ってある）。

diff --git a/scripts/city-bake/README.md b/scripts/city-bake/README.md
@@ -13,7 +13,7 @@
 ./run.sh
 ```
 
-`work/` にデータ（約 2GB）を置き、`public/home/city`（3 倍・2 倍の端末用の層と、影用の高さ地図・航空障害灯）を書き換える。
+`work/` にデータ（約 2GB）を置き、`public/home/city`（3 倍・2 倍の端末用の層と、影用の高さ地図・航空障害灯）を書き換える。仕上げ（`post3.py`）では、縮めて柔らかくなった色を少しだけ研ぐ（カメラの輪郭強調と同じ程度）。東京タワーの部材は遠目の格子の密度に合わせて実寸より少し太い（`tower.py`）。
 
 ## 出てくる層（`public/home/city/{2x,3x}`）
 
